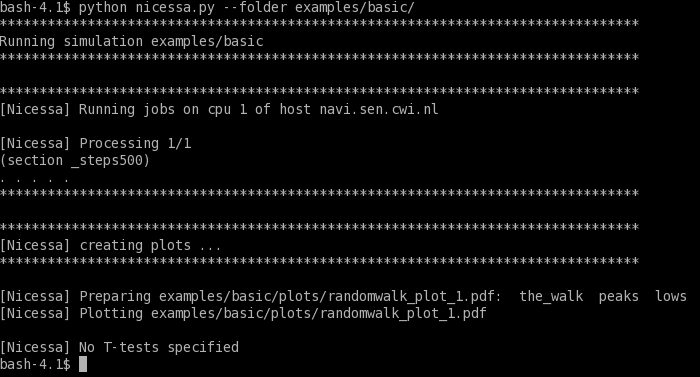
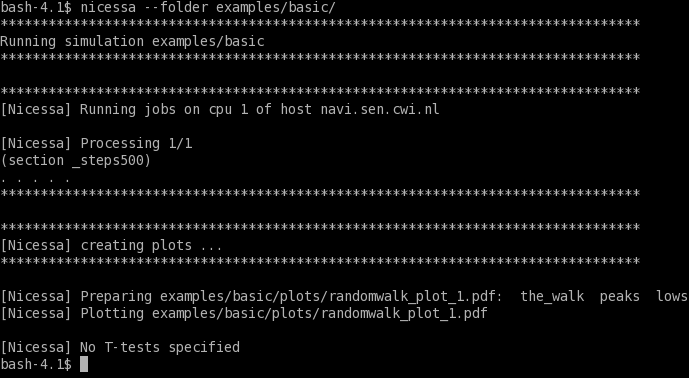
- fix error when remote simulation wasa run with --folder != '.' ; streamline reference point for scripts in the process, - let remote tasks only care about hosts which actually got tasks assigned, not only when they are mentioned in remote.conf - reduce and beautify cmd line output a bit - 2 screen

diff --git a/sim/net/remote.py b/sim/net/remote.py
@@ -62,10 +62,11 @@ def run_remotely(simfolder, conf):
     folder = simfolder
     remote_conf = utils.get_host_conf(simfolder)
     num_hosts = utils.num_hosts(simfolder)
-    ssh_clients = {} # we login twice to each
+    working_cpus_per_host = utils.working_cpus_per_host(folder)
+    ssh_clients = {} # we login twice to each if it has work
 
     print "[Nicessa] Preparing hosts ..."
-    for host in xrange(1, num_hosts+1):
+    for host in [h for h in xrange(1, num_hosts+1) if working_cpus_per_host[h] > 0]:
         ssh_clients[host] = _get_ssh_client(remote_conf, host)
         if ssh_clients[host] is None:
             print "[Nicessa] Cannot connect to host %d. Aborting ...  " % host
@@ -90,16 +91,15 @@ def run_remotely(simfolder, conf):
         # make fresh dirs to config and log screens
         cleaning += 'mkdir -p screenrcs; rm -r screenrcs/*; mkdir -p screenlogs; rm -r screenlogs/*;'
         # clean old states, too - never know how the last run was finished (e.g. Ctrl-C)
-        cleaning += clean_states(simfolder, conf, host)
+        cleaning += clean_states(simfolder, host)
         ssh(ssh_clients[host], cleaning)
 
     used_hosts = 0
-    cpus_per_host = utils.cpus_per_host(simfolder)
-    for host in xrange(1, num_hosts+1):
+    for host in [h for h in xrange(1, num_hosts+1) if working_cpus_per_host[h] > 0]:
         # -------------  initialize each host
         # don't proceed if a host doesn't have work to do (TODO: maybe also don't clean before?)
         host_has_work = False
-        if osp.exists("%s/conf/%d" % (simfolder, host)):
+        if osp.exists("%s/conf/%d" % (folder, host)):
             host_has_work = True
             used_hosts += 1
         if not host_has_work:
@@ -109,14 +109,14 @@ def run_remotely(simfolder, conf):
         # let him run the batch for this host in a background screen (for each simulation we might have)
         # TODO: remote works only with subsimulations right now? We should fix that
         screening = ""
-        for cpu in xrange(1, cpus_per_host[host]+1):
+        for cpu in xrange(1, working_cpus_per_host[host]+1):
             if osp.exists("%s/conf/%d/%d" % (simfolder, host, cpu)):
-                screening += "rm %s/finished_%i_%i; ./%s/screener.py screen_host_%i_cpu_%i './%s/starter.py %s %i %i; touch %s/finished_%i_%i;exit;'; " \
-                    % (folder, host, cpu, folder, host, cpu, folder, folder, host, cpu, folder, host, cpu)
+                screening += "rm finished_%i_%i; ./screener.py screen_host_%i_cpu_%i './starter.py . %i %i; touch finished_%i_%i;exit;'; " \
+                    % (host, cpu, host, cpu, host, cpu, host, cpu)
 
         #  --- local file shuffling
-        if not simfolder == ".":
-            os.chdir(simfolder)
+        if not folder == ".":
+            os.chdir(folder)
 
         # all host-side screen calls go in a script file, so screener.py can quietly make sure they all start without me waiting
         cmd = open("cmd_%d" % host, 'w')
@@ -146,23 +146,18 @@ def run_remotely(simfolder, conf):
         # put all we need in a tar.gz archive
         Popen("tar -cf _nicessa_bundle.tar %s; gzip -f _nicessa_bundle.tar;" % (needed), shell=True).wait()
 
-        if not simfolder == ".":
-            for _ in simfolder.split("/"):
-                os.chdir('..')
-        # --- end local file shuffling
-
-        # ------------ now we actually connect and do all these things online
-        initializing = "cd %s/%s; tar -zxf _nicessa_bundle.tar.gz; cd; cd %s;" % (path, folder, path)
-
+        # ------------ here we actually connect and do all these things online
+        path = remote_conf.get("host%i" % host, "path")
         if ssh_clients[host] is None:
             return False
         try:
             print "[Nicessa] Running code on %s" %  remote_conf.get("host%i" % host, "name")
             scp_client = scp.SCPClient(ssh_clients[host]._transport)
-            scp_client.put("%s/_nicessa_bundle.tar.gz" % simfolder, remote_path="%s/%s" % (path, folder))
+            scp_client.put("_nicessa_bundle.tar.gz", remote_path="%s/%s" % (path, folder))
             time.sleep(2)
+            initializing = "cd %s/%s; tar -zxf _nicessa_bundle.tar.gz;" % (path, folder)
             log = open("log%d" % host, 'w')
-            log.write(ssh(ssh_clients[host], "%s mv %s/cmd_%d .; ./cmd_%d; rm cmd_%d;" % (initializing, folder, host, host, host)))
+            log.write(ssh(ssh_clients[host], "%s ./cmd_%d; rm cmd_%d;" % (initializing, host, host)))
             log.flush()
             log.close()
         except scp.SCPException, e:
@@ -170,10 +165,18 @@ def run_remotely(simfolder, conf):
         ssh_clients[host].close()
 
         # ------------ clean locally
-        os.remove("%s/_nicessa_bundle.tar.gz" % simfolder)
-        os.remove("%s/cmd_%d" % (simfolder, host))
+        os.remove("_nicessa_bundle.tar.gz")
+        os.remove("cmd_%d" % (host))
         for c in copied_here:
-            os.remove("%s/%s" % (simfolder, c))
+            os.remove("%s" % c)
+
+        if not folder == ".":
+            for sf in folder.split("/"):
+                if sf != '':
+                    os.chdir('..')
+        # --- end local file shuffling
+
+
 
     print "[Nicessa] deployed simulation on %i host(s)" % (used_hosts)
     return True
@@ -190,10 +193,10 @@ def check(simfolder):
     '''
     conf = utils.get_main_conf(simfolder)
     hosts = utils.num_hosts(simfolder)
-    cpus_per_host = utils.cpus_per_host(simfolder)
-    finished = dict.fromkeys(xrange(1, hosts+1))
-    running = dict.fromkeys(xrange(1, hosts+1))
-    for host in xrange(1, hosts+1):
+    working_cpus_per_host = utils.working_cpus_per_host(simfolder)
+    finished = {}
+    running = {}
+    for host in [h for h in xrange(1, hosts+1) if working_cpus_per_host[h] > 0]:
         finished[host] = []
         running[host] = []
     remote_conf = utils.get_host_conf(simfolder)
@@ -201,24 +204,25 @@ def check(simfolder):
     print "[Nicessa] Checking hosts: ",
     sys.stdout.flush()
     for host in xrange(1, hosts+1):
-        hostname = remote_conf.get("host%i" % host, "name")
-        print "%s (host-nr:%d, cpus:%d)  " % (hostname, host, cpus_per_host[host]),
-        sys.stdout.flush()
-        ssh_client = _get_ssh_client(remote_conf, host)
-        if ssh_client:
-            path = remote_conf.get("host%i" % host, "path")
-            fin = ssh(ssh_client, 'cd %s/%s; ls finished_*;' % (path, simfolder))
-            run = ssh(ssh_client, 'screen -ls;')
-            for cpu in xrange(1, cpus_per_host[host]+1):
-                if "finished_%d_%d" % (host, cpu) in fin:
-                    finished[host].append(cpu)
-                if "screen_host_%d_cpu_%d" % (host, cpu) in run:
-                    running[host].append(cpu)
-                if "No sockets found" in run:
-                    print "No sockets found on host %s..." % hostname
-        else:
-            print "[Nicessa] Cannot make connection to host %d" % host
-            #return False
+        if working_cpus_per_host[host] > 0:
+            hostname = remote_conf.get("host%i" % host, "name")
+            print "%s (host-nr:%d, cpus:%d)  " % (hostname, host, working_cpus_per_host[host]),
+            sys.stdout.flush()
+            ssh_client = _get_ssh_client(remote_conf, host)
+            if ssh_client:
+                path = remote_conf.get("host%i" % host, "path")
+                fin = ssh(ssh_client, 'cd %s/%s; ls finished_*;' % (path, simfolder))
+                run = ssh(ssh_client, 'screen -ls;')
+                for cpu in xrange(1, working_cpus_per_host[host]+1):
+                    if "finished_%d_%d" % (host, cpu) in fin:
+                        finished[host].append(cpu)
+                    if "screen_host_%d_cpu_%d" % (host, cpu) in run:
+                        running[host].append(cpu)
+                    if "No sockets found" in run:
+                        print "No sockets found on host %s..." % hostname
+            else:
+                print "[Nicessa] Cannot make connection to host %d" % host
+                #return False
     print
     print "[Nicessa] Finished cpus:"
     for host in finished.keys():
@@ -231,19 +235,21 @@ def check(simfolder):
 
 def get_results(simfolder, do_wait=True):
     '''
-    Copies result logs from the remote host(s) if they are all available for the whole job.
+    Copy result logs from the remote host(s) if they are all available for the whole job.
 
     :param string simfolder: relative path to simfolder
     :param boolean do_wait: True if regular checks should be done until all data is available (default is True)
     '''
     print '*' * 80
     print "[Nicessa] getting results ... "
-    print "[Nicessa] This may take a while, depending on how much data your simulation generated. I'll tell you when I got everything from a host."
 
-    conf = utils.get_main_conf(simfolder)
     remote_conf = utils.get_host_conf(simfolder)
-    cpus_per_host = utils.cpus_per_host(simfolder)
     hosts_done = dict.fromkeys(xrange(1, utils.num_hosts(simfolder)+1), False)
+    working_cpus_per_host = utils.working_cpus_per_host(simfolder)
+    for host in hosts_done.keys():
+        working_cpus_per_host[host] = 0
+        if os.path.exists('%s/conf/%d' % (simfolder, host)):
+            working_cpus_per_host[host] = len(os.listdir('%s/conf/%d' % (simfolder, host)))
     all_done = False
     if remote_conf.has_option('communication', 'wait'):
         if do_wait:
@@ -258,6 +264,8 @@ def get_results(simfolder, do_wait=True):
 
     while not all_done:
         for host in hosts_done.keys():
+            if working_cpus_per_host[host] == 0:
+                hosts_done[host] = True
             if not hosts_done[host]:
                 hostname = remote_conf.get("host%i" % host, "name")
                 if first_time_done:
@@ -270,10 +278,8 @@ def get_results(simfolder, do_wait=True):
                         res = ssh(ssh_client, 'cd %s/%s; ls' % (path, simfolder))
                         # TODO: this is no good when we get the results on a different computer than we started from
                         #relevant_subsims = [subsim for subsim in utils.get_simulation_names(conf) if osp.exists("%s/conf/%s/%s" % (simfolder, subsim, host))]
-                        if cpus_per_host[host] == 0:
-                            hosts_done[host] = True
-                        elif 'data' in res and reduce(lambda x, y: x and y, \
-                                             map(res.__contains__, ["finished_%s_%i" % (host, cpu) for cpu in xrange(1, cpus_per_host[host]+1)])):
+                        if 'data' in res and reduce(lambda x, y: x and y, \
+                                             map(res.__contains__, ["finished_%s_%i" % (host, cpu) for cpu in xrange(1, working_cpus_per_host[host]+1)])):
                             scp_client = scp.SCPClient(ssh_client._transport)
                             try:
                                 print "[Nicessa] contacting %s - compressing ... " % hostname ,
@@ -285,13 +291,14 @@ def get_results(simfolder, do_wait=True):
                                 os.chdir(simfolder)
                                 Popen("tar -zxf data_%d.tar.gz; rm data_%d.tar.gz" % (host, host), shell=True).wait()
                                 if not simfolder == ".":
-                                    for _ in simfolder.split("/"):
-                                        os.chdir('..')
+                                    for sf in simfolder.split("/"):
+                                        if sf != '':
+                                            os.chdir('..')
                             except OSError, e:
                                 print e
                             hosts_done[host] = True
                             print "done."
-                            ssh(ssh_client, 'cd %s/%s; %s' % (path, simfolder, clean_states(simfolder, conf, host)))
+                            ssh(ssh_client, 'cd %s/%s; %s' % (path, simfolder, clean_states(simfolder, host)))
                     except Exception, e:
                         print e
                     ssh_client.close()
@@ -373,8 +380,9 @@ def _get_ssh_client(remote_conf, host):
     try:
         ssh_client.connect(hostname, username=usr)
     except paramiko.AuthenticationException:
-        print "[Nicessa] Could not connect to host '%s' as user '%s' with no password." % (hostname, usr)
-        print "          If you want password-less logon, please check your RSA key or shared/remembered connection setup."
+        pass
+        #print "[Nicessa] Could not connect to host '%s' as user '%s' with no password." % (hostname, usr)
+        #print "          If you want password-less logon, please check your RSA key or shared/remembered connection setup."
     except Exception, e:
         print "[Nicessa] WARNING: Error while connecting with host %s: %s. " % (hostname, e)
         if "Unknown server" in str(e):
@@ -384,7 +392,7 @@ def _get_ssh_client(remote_conf, host):
         return ssh_client
     ssh_client = None
     while ssh_client is None:
-        print "You can enter the password for user '%s' now (type 'exit' to abort): " % usr
+        print "Logging in user '%s' on host '%s' now (type 'exit' to abort): " % (usr, hostname)
         passwd = getpass()
         if passwd == 'exit':
             break
@@ -401,14 +409,13 @@ def _get_ssh_client(remote_conf, host):
     return ssh_client
 
 
-def clean_states(simfolder, conf, host):
+def clean_states(simfolder, host):
     '''
     Build commands which remove traces of any (former) Nicessa activity on one host:
     clean running screens and files that are used to indicate states.
     For files, we assume to be located in the data dir Nicessa uses in that host.
 
     :param string simfolder: relative path to simfolder
-    :param ConfigParser remote_conf: host configuration
     :param int host: index of host
     :returns: a string with all ``rm`` and ``kill`` commands
     '''

diff --git a/sim/net/starter.py b/sim/net/starter.py
@@ -57,9 +57,11 @@ def single(section, simfolder, uber_conf, config_file):
     :param CinfigParser uber_conf: the main simulation configuration
     :param string config_file: name of the config file for this run
     '''
+    if not simfolder == ".":
+        os.chdir(simfolder)
     conf = ConfigParser()
     conf.read('%s' % config_file)
-    data_dirname = "%s/data" % (simfolder)
+    data_dirname = 'data'
     section_dirname = "%s/%s" % (data_dirname, section)
 
     # make sure data section dir exists + copy actual config file there
@@ -89,7 +91,12 @@ def single(section, simfolder, uber_conf, config_file):
         csv.write("# Log for run %d in simulation %s \n" % (run, conf.get('meta', 'name')))
         csv.flush()
         csv.close()
-        Popen("%s/%s %s %s %s" % (simfolder, conf.get('control', 'executable'), logfile, config_file, seed), shell=True).wait()
+        Popen("%s %s %s %s" % (conf.get('control', 'executable'), logfile, config_file, seed), shell=True).wait()
+
+    if not simfolder == ".":
+        for sf in simfolder.split("/"):
+            if sf != '':
+                os.chdir('..')
 
 
 if __name__ == '__main__':

diff --git a/sim/utils.py b/sim/utils.py
@@ -188,7 +188,7 @@ def num_hosts(simfolder):
 
 
 def cpus_per_host(simfolder):
-    ''' :returns: a dict, mapping host indices to the number of cpus specified for them
+    ''' :returns: a dict, mapping host indices to the number of cpus specified for them to be available
         :param string simfolder: relative path to simfolder
     '''
     if not is_remote(simfolder):
@@ -204,6 +204,15 @@ def cpus_per_host(simfolder):
     #    cpus_per_host[0] = 1 # poor guy gets everything either way, so this need not be true
     return cpus_per_host
 
+def working_cpus_per_host(simfolder):
+    ''' :returns: a dict, mapping host indices to the number of cpus that have been assigned work on them
+        :param string simfolder: relative path to simfolder
+    '''
+    d = dict.fromkeys(xrange(1, num_hosts(simfolder)+1), 0)
+    for host in d.keys():
+        if os.path.exists('%s/conf/%d' % (simfolder, host)):
+            d[host] = len(os.listdir('%s/conf/%d' % (simfolder, host)))
+    return d
 
 def runs_in_folder(simfolder, fname):
     ''' :returns: number of runs that have been made in this data folder

diff --git a/nicessa.py b/nicessa.py
@@ -94,12 +94,11 @@ def run_more(simfolder):
     sel_params = {}
     for o in conf.options('params'):
         selected = False
-        print o
         params = [p.strip() for p in conf.get('params', o).split(',')]
         if len(params) <= 1:
             continue # no need to narrow down
         while not selected:
-            print "%s ? (out of [%s])" % (o, conf.get('params', o))
+            print "<%s> ? (out of [%s])" % (o, conf.get('params', o))
             choice = []
             for selection in raw_input().split(','):
                 selected = True
@@ -305,7 +304,7 @@ def list_data(simfolder):
 # ---------------------------------------------------------------------------------------------------
 
 def _check_data(simfolder, more=False):
-    """ check if old data is lyinf around, ask if it can go
+    """ check if old data is lying around, ask if it can go
 
         :param boolean more: when True, new data will simply be added to existing data
     """

diff --git a/sim/setup.py b/sim/setup.py
@@ -247,7 +247,7 @@ def create(conf, simfolder, limit_to={}, more=False):
                 # mention this sub-conf in the main-conf of this cpu
                 main_conf.write('\n')
                 main_conf.write('[%s]\n' % sub_name)
-                main_conf.write('config_file = %s/%s.conf\n' % (prefix_dir, sub_name))
+                main_conf.write('config_file = conf/%d/%d/%s.conf\n' % (host, cpu, sub_name))
                 main_conf.flush()
                 jobindex += 1
 
